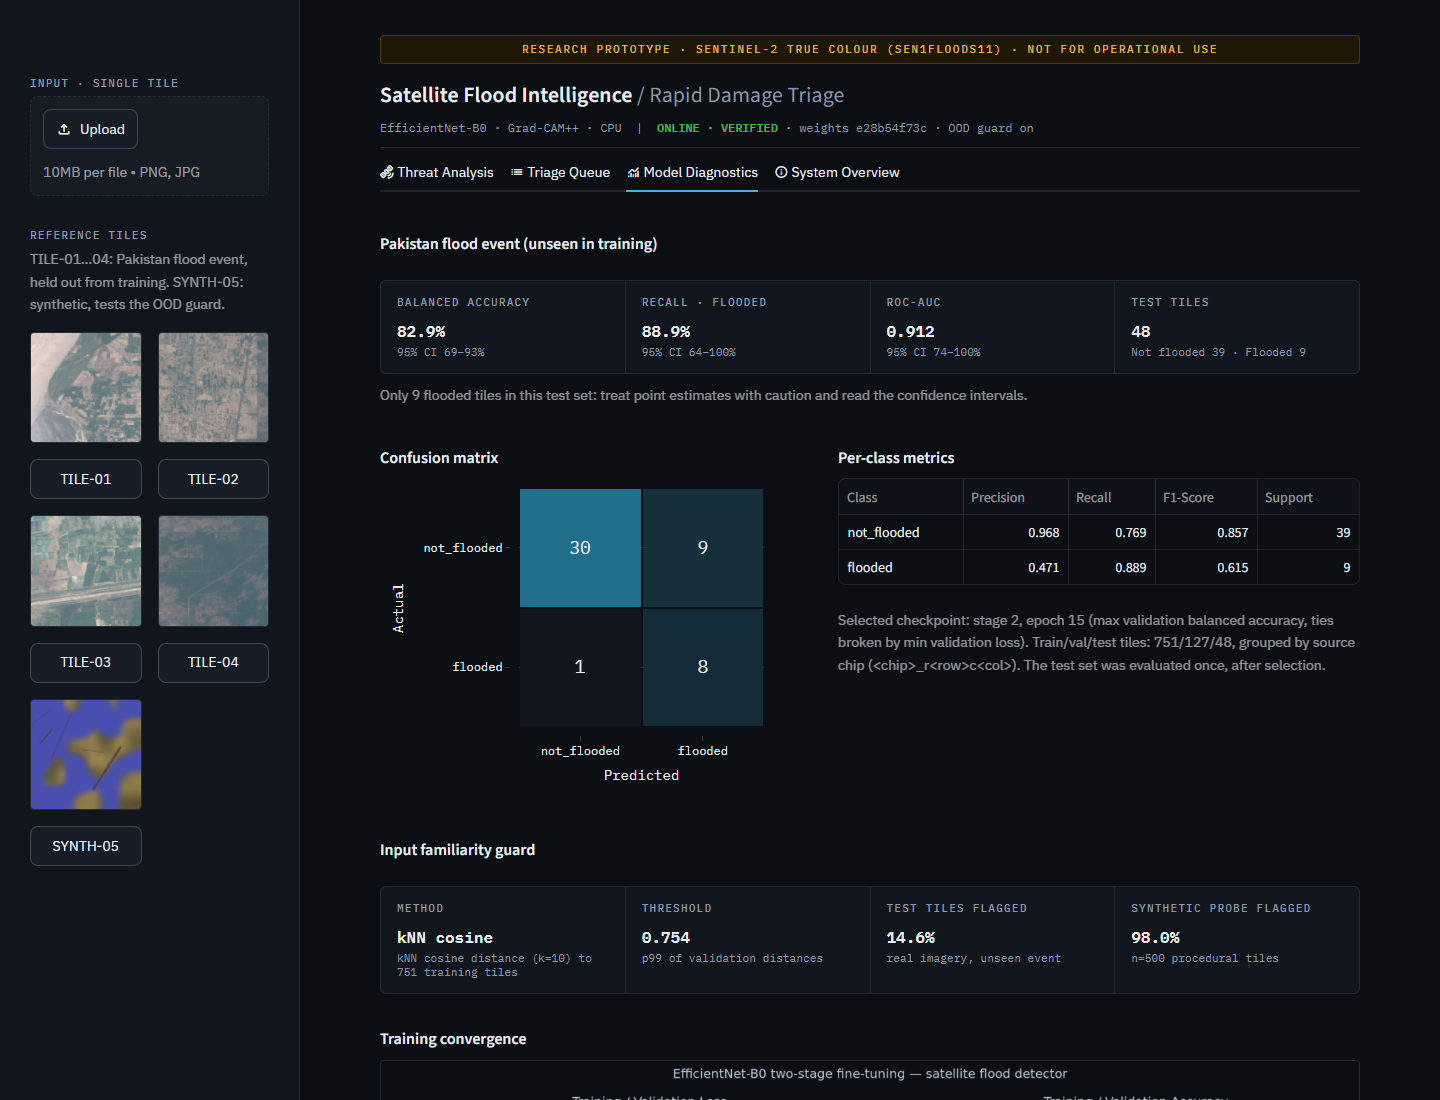
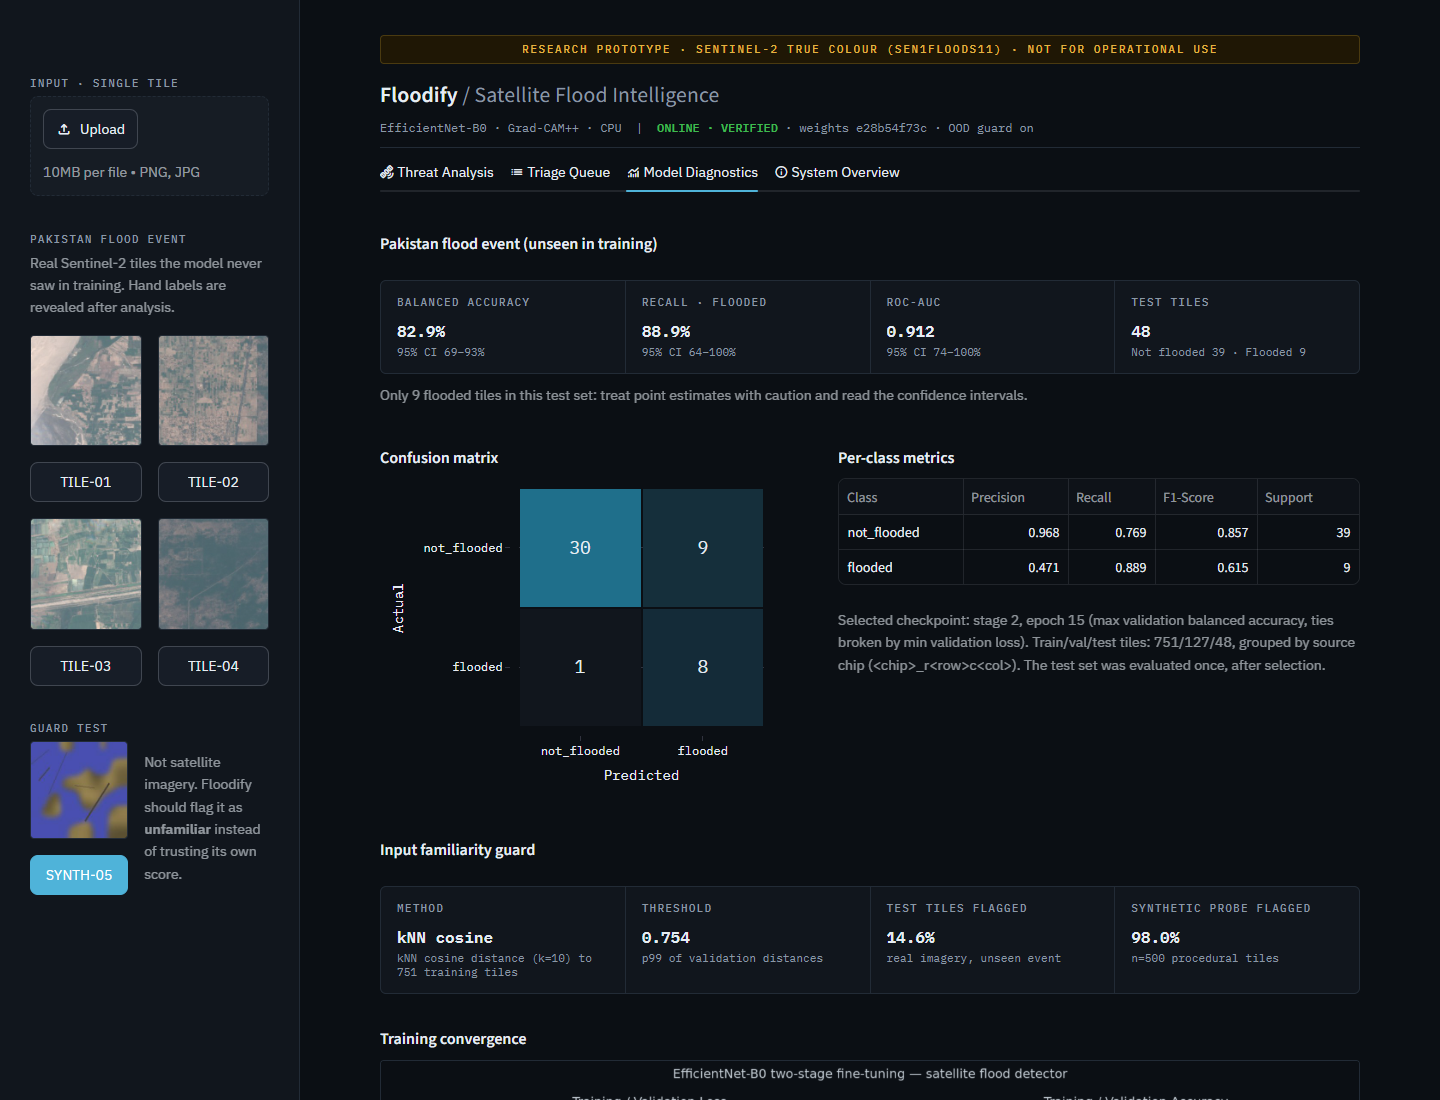
Rename to Floodify; clarify reference tile panel
- App title, page title, and README renamed to "Floodify · Satellite Flood
  Intelligence"
- Sidebar splits reference tiles into "Pakistan flood event" (real, unseen)
  and "Guard test" (synthetic, with an explanation beside it)
- Selected reference tile's button is highlighted
- README notes floodify-web.streamlit.app is taken; suggests a distinct URL
- Screenshots recaptured

Changed region(s): [[0.0, 0.1855, 0.1875, 0.8345], [0.25, 0.0618, 0.5938, 0.0927], [0.125, 0.5564, 0.1875, 0.6182]]

diff --git a/app.py b/app.py
@@ -1,4 +1,4 @@
-"""Satellite Flood Intelligence System — Streamlit frontend.
+"""Floodify — Satellite Flood Intelligence. Streamlit frontend.
 
 Serves the checkpoint produced by `train_pipeline.py`. Every value shared with
 training (class order, input size, normalization, architecture, OOD features)
@@ -94,7 +94,7 @@ COLOR_OK = "#3FB950"
 PLOT_FONT = dict(family="IBM Plex Mono, Consolas, monospace", color=COLOR_MUTED)
 
 st.set_page_config(
-    page_title="Satellite Flood Intelligence System",
+    page_title="Floodify · Satellite Flood Intelligence",
     page_icon=":material/satellite_alt:",
     layout="wide",
     initial_sidebar_state="expanded",
@@ -303,7 +303,7 @@ def render_header(loaded: LoadedCheckpoint | None) -> None:
         '<div class="poc-banner">Research prototype · Sentinel-2 true colour (Sen1Floods11) · '
         "not for operational use</div>"
         '<div class="app-header">'
-        '<div class="app-title">Satellite Flood Intelligence <span>/ Rapid Damage Triage</span></div>'
+        '<div class="app-title">Floodify <span>/ Satellite Flood Intelligence</span></div>'
         f'<div class="app-meta">EfficientNet-B0 · Grad-CAM++ · CPU &nbsp;|&nbsp; {status}{guard}</div>'
         "</div>",
         unsafe_allow_html=True,
@@ -336,23 +336,43 @@ def select_input(enabled: bool) -> dict | None:
                 "name": uploaded.name, "bytes": uploaded.getvalue(), "source": "upload", "truth": None,
             }
 
-        st.markdown('<div class="kpi-label" style="margin-top:1rem">Reference tiles</div>', unsafe_allow_html=True)
-        st.caption("TILE-01…04: Pakistan flood event, held out from training. SYNTH-05: synthetic, tests the OOD guard.")
+        real_tiles = [t for t in SAMPLE_TILES if t["truth"] is not None]
+        guard_tiles = [t for t in SAMPLE_TILES if t["truth"] is None]
+
+        st.markdown('<div class="kpi-label" style="margin-top:1.2rem">Pakistan flood event</div>', unsafe_allow_html=True)
+        st.caption("Real Sentinel-2 tiles the model never saw in training. Hand labels are revealed after analysis.")
         cols = st.columns(2)
-        for i, tile in enumerate(SAMPLE_TILES):
+        for i, tile in enumerate(real_tiles):
             with cols[i % 2]:
-                if not tile["path"].exists():
-                    st.caption(f"Missing: {tile['path'].name}")
-                    continue
-                st.image(str(tile["path"]), width="stretch")
-                if st.button(tile["id"], key=f"tile_{tile['id']}", width="stretch", disabled=not enabled):
-                    st.session_state.active = {
-                        "name": f"{tile['id']} ({tile['path'].name})",
-                        "bytes": tile["path"].read_bytes(),
-                        "source": "reference",
-                        "truth": tile["truth"],
-                    }
+                _reference_tile(tile, enabled)
+
+        st.markdown('<div class="kpi-label" style="margin-top:1.2rem">Guard test</div>', unsafe_allow_html=True)
+        for tile in guard_tiles:
+            thumb_col, text_col = st.columns([1, 1.25], vertical_alignment="center")
+            with thumb_col:
+                _reference_tile(tile, enabled)
+            text_col.caption("Not satellite imagery. Floodify should flag it as **unfamiliar** instead of trusting "
+                             "its own score.")
     return st.session_state.get("active")
+
+
+def _reference_tile(tile: dict, enabled: bool) -> None:
+    """Thumbnail + select button; the active tile's button is highlighted."""
+    if not tile["path"].exists():
+        st.caption(f"Missing: {tile['path'].name}")
+        return
+    active = st.session_state.get("active") or {}
+    is_active = active.get("source") == "reference" and active.get("name", "").startswith(tile["id"])
+    st.image(str(tile["path"]), width="stretch")
+    if st.button(tile["id"], key=f"tile_{tile['id']}", width="stretch", disabled=not enabled,
+                 type="primary" if is_active else "secondary"):
+        st.session_state.active = {
+            "name": f"{tile['id']} ({tile['path'].name})",
+            "bytes": tile["path"].read_bytes(),
+            "source": "reference",
+            "truth": tile["truth"],
+        }
+        st.rerun()  # re-render so the highlight moves to the tile just selected
 
 
 # --------------------------------------------------------------------------

diff --git a/tools/capture_screenshots.py b/tools/capture_screenshots.py
@@ -48,7 +48,7 @@ def main() -> int:
         browser = p.chromium.launch(channel=args.channel, headless=True)
         page = browser.new_page(viewport={"width": 1440, "height": 1100}, color_scheme="dark")
         page.goto(args.url, wait_until="networkidle")
-        expect(page.get_by_text("Satellite Flood Intelligence").first).to_be_visible(timeout=TIMEOUT_MS)
+        expect(page.get_by_text("Floodify").first).to_be_visible(timeout=TIMEOUT_MS)
         settle(page)
 
         page.get_by_role("button", name="TILE-01", exact=True).click()

diff --git a/README.md b/README.md
@@ -1,4 +1,4 @@
-# Satellite Flood Intelligence System
+# Floodify · Satellite Flood Intelligence
 
 [![CI](https://github.com/OWNER/REPO/actions/workflows/ci.yml/badge.svg)](.github/workflows/ci.yml)
 [![Python](https://img.shields.io/badge/Python-3.12--3.14-3776AB?logo=python&logoColor=white)](https://www.python.org/)
@@ -6,7 +6,7 @@
 [![Streamlit](https://img.shields.io/badge/Streamlit-1.63-FF4B4B?logo=streamlit&logoColor=white)](https://streamlit.io/)
 [![License](https://img.shields.io/badge/License-MIT-blue.svg)](LICENSE)
 
-Explainable flood triage for Sentinel-2 satellite imagery. An EfficientNet-B0 classifier scores each tile, Grad-CAM++ shows the spatial evidence for flooding, an input-familiarity guard refuses to vouch for imagery unlike its training data, and an analyst dashboard ranks tiles, records human verification, and exports an auditable evidence package.
+**Floodify** is explainable flood triage for Sentinel-2 satellite imagery. An EfficientNet-B0 classifier scores each tile, Grad-CAM++ shows the spatial evidence for flooding, an input-familiarity guard refuses to vouch for imagery unlike its training data, and an analyst dashboard ranks tiles, records human verification, and exports an auditable evidence package.
 
 > **Research prototype, not for operational use.** Trained on 10 flood events from Sen1Floods11 and tested on an 11th, **Pakistan**, that the model never saw.
 
@@ -122,7 +122,7 @@ Training is deterministic on CPU: two independent runs produced identical metric
 ## Deploy to Streamlit Community Cloud
 
 1. Push this repository to GitHub. The 19 MB checkpoint is committed directly; no Git LFS is needed.
-2. At [share.streamlit.io](https://share.streamlit.io), choose **Create app → From GitHub**, select the repo, branch `main`, main file `app.py`.
+2. At [share.streamlit.io](https://share.streamlit.io), choose **Create app → From GitHub**, select the repo, branch `main`, main file `app.py`, and pick a distinct app URL (e.g. `floodify-pakistan`; `floodify-web` is already taken by another project).
 3. Under **Advanced settings**, choose Python **3.12** or **3.13** (the dependency set is verified to resolve for both on Linux, with CPU-only PyTorch).
 4. Deploy, then replace `OWNER/REPO` in the CI badge above.
 
